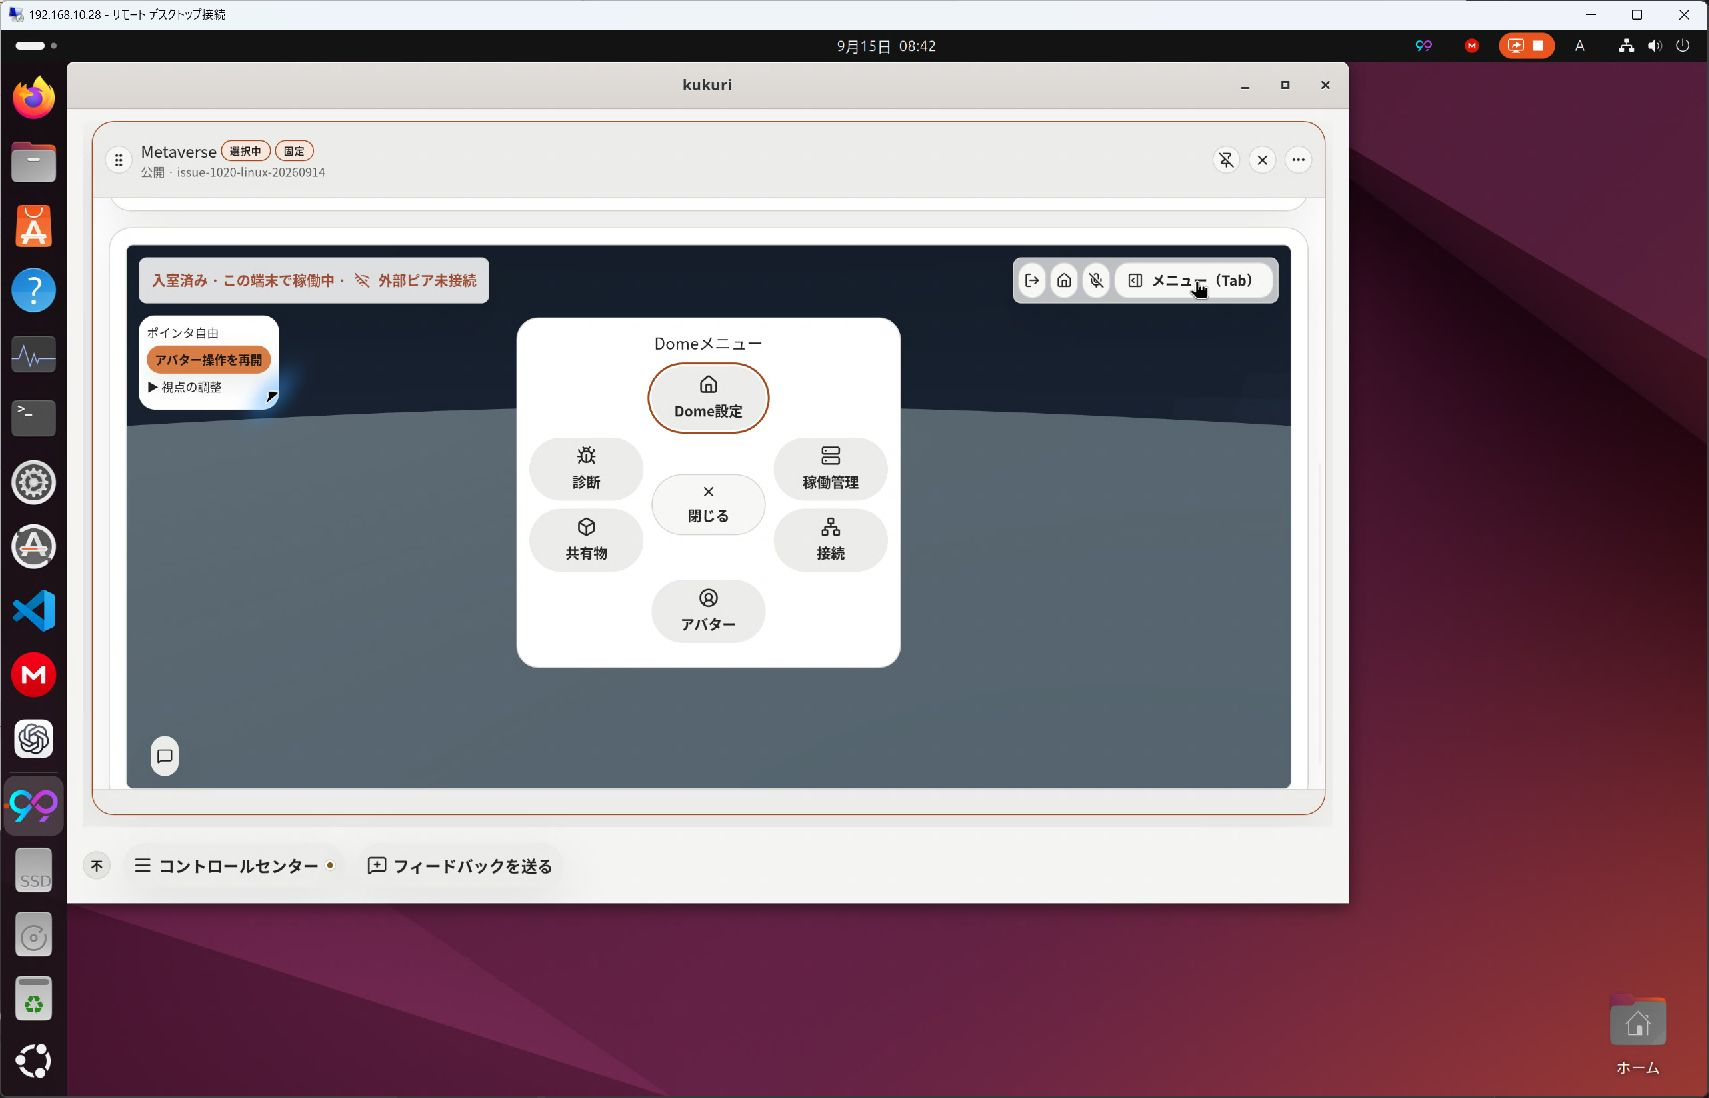
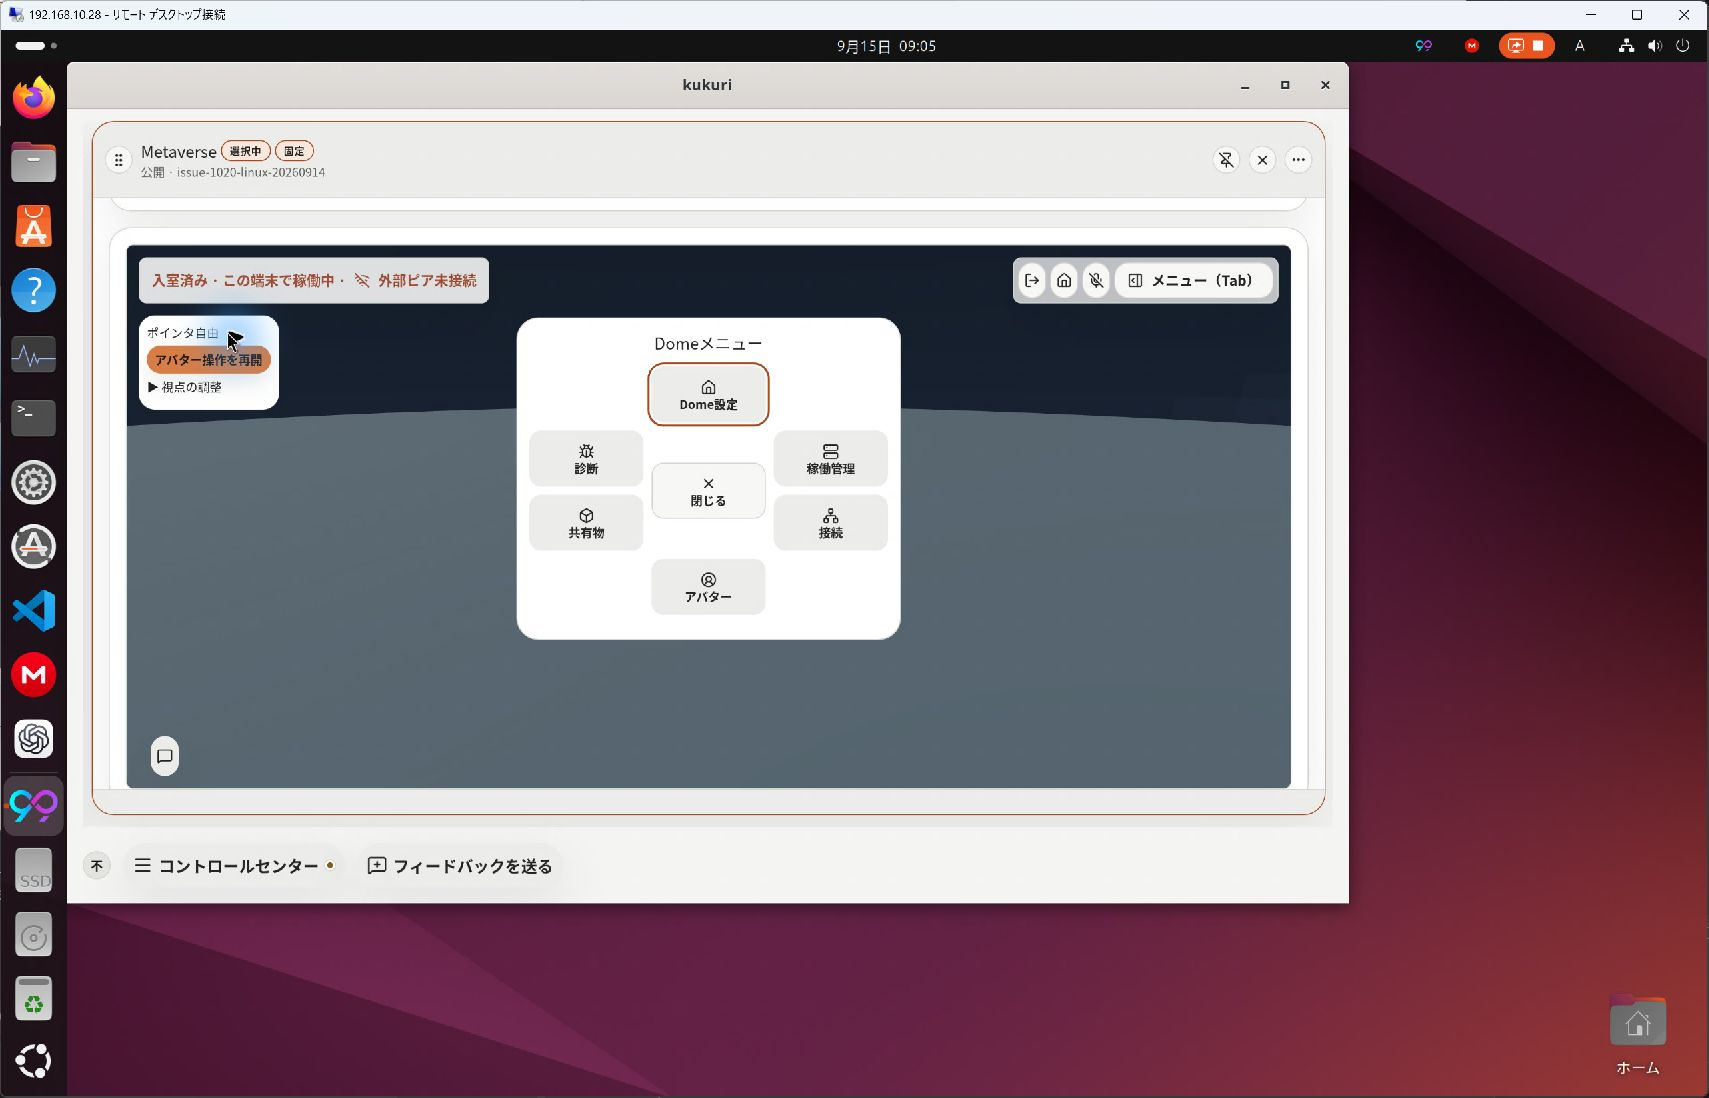
fix(metaverse): guard deferred focus and verify native HUD flows

diff --git a/apps/desktop/src/components/extended/metaverse/MetaverseRoomView.test.tsx b/apps/desktop/src/components/extended/metaverse/MetaverseRoomView.test.tsx
@@ -269,6 +269,17 @@ describe('MetaverseRoomView', () => {
     expect(removeEventListener).toHaveBeenCalledWith('keydown', expect.any(Function));
   });
 
+  test('a queued chat focus does not steal focus after the Column becomes inactive', () => {
+    const callbacks: FrameRequestCallback[] = [];
+    vi.spyOn(window, 'requestAnimationFrame').mockImplementation(callback => { callbacks.push(callback); return callbacks.length; });
+    const props = viewProps({ initialChatOpen: true });
+    const active = { visible: true, active: true, audioFocused: false, suspended: false, requestAudioFocus: vi.fn(), releaseAudioFocus: vi.fn() };
+    const view = render(<ColumnRuntimeProvider value={active}><MetaverseRoomView {...props} /></ColumnRuntimeProvider>);
+    view.rerender(<ColumnRuntimeProvider value={{ ...active, active: false, visible: false, suspended: true }}><MetaverseRoomView {...props} /></ColumnRuntimeProvider>);
+    act(() => callbacks.forEach(callback => callback(0)));
+    expect(screen.getByLabelText('Room chat message')).not.toHaveFocus();
+  });
+
   test('suspends rendering and keyboard controls without removing room session UI', () => {
     render(
       <ColumnRuntimeProvider value={{

diff --git a/apps/desktop/src/components/extended/metaverse/MetaverseRoomView.tsx b/apps/desktop/src/components/extended/metaverse/MetaverseRoomView.tsx
@@ -175,6 +175,7 @@ export function MetaverseRoomView({
   useEffect(() => {
     if (!eligibleRef.current || overlay === 'closed') return;
     const frame = requestAnimationFrame(() => {
+      if (!eligibleRef.current) return;
       if (overlay === 'chat') messageInputRef.current?.focus();
       if (overlay === 'categories') stageRef.current?.querySelector<HTMLElement>(`.metaverse-category-menu [data-category="${category}"]`)?.focus();
       if (overlay === 'details') stageRef.current?.querySelector<HTMLElement>('[role="tab"][aria-selected="true"]')?.focus();

diff --git a/apps/desktop/tests/playwright/metaverse-column-layout.spec.ts b/apps/desktop/tests/playwright/metaverse-column-layout.spec.ts
@@ -51,6 +51,9 @@ test('span expansion reveals the selected header before the next interaction', a
 });
 
 test('narrow HUD and chat remain contained and keep their drafts across spans', async ({ page }) => {
+  // Three span changes and three menu/chat round trips include a cold 3D startup.
+  // Keep each assertion's deadline; allow the complete sequence on shared CI CPUs.
+  test.slow();
   const column = await openRoom(page);
   await column.getByRole('button', { name: en.chat.open }).click();
   const chat = column.locator('.metaverse-chat-form input');

diff --git a/apps/desktop/tests/playwright/metaverse-hud.spec.ts b/apps/desktop/tests/playwright/metaverse-hud.spec.ts
@@ -17,6 +17,8 @@ async function enter(page: Page, width = 1283) {
 }
 
 test('six categories, keyboard and IME preserve drafts without dispatching domain actions', async ({ page }) => {
+  // This covers all six panes plus keyboard and composition round trips after 3D startup.
+  test.slow();
   const column = await enter(page);
   const stage = column.locator('.metaverse-room-stage');
   await expect(column.locator('.metaverse-room-hud')).toBeHidden();

diff --git a/docs/progress/2026-09-15-1024-metaverse-hud.md b/docs/progress/2026-09-15-1024-metaverse-hud.md
@@ -1,6 +1,7 @@
 # #1024 Metaverseのカテゴリメニューと設定
 
 - Issue: [#1024](https://github.com/KingYoSun/kukuri/issues/1024)
+- PR: [#1030](https://github.com/KingYoSun/kukuri/pull/1030)
 - Scope revision: `2026-09-14-r1`
 - 基準commit: `f884aa247b66605686563dba272fe1b86d920773`
 - 区分B。表示・入力と既存actionの配置を変更し、backend、同意・権限guard、wire契約を変更しない。
@@ -50,9 +51,16 @@ caller確認はCodeGraphを入口に、componentのimport、Panelの合成、act
 | HUD browser | 6カテゴリ・IME・禁止action 0回、390pxの全項目到達成功。詳細幅assertionを含む最終2件成功 |
 | camera／layout／fullscreen browser | 初回22/31成功。検出した9件を修正し、8件の再実行成功＋管理1件の再実行成功 |
 | Storybook build | 成功。サークル・狭幅・Dome設定・アバター・共有物・診断storiesを追加 |
-| cargo xtask check | Rust／Tauri compile後にfrontend lint失敗。ref／exportを修正しtargeted lint成功。最終gateは後続で記録 |
-| cargo xtask test | 実行中。完了結果は後続で記録 |
-| desktop-ui-check | Windowsで実行中xtask.exeの再リンク競合。コピーした同一xtaskで再実行。旧CSS未使用とshellの失敗を検出、最終結果は後続で記録 |
+| cargo xtask check | 初回はfrontend lint失敗。ref／exportを修正し、再実行でRust／Tauri／lint／typecheck全て成功 |
+| cargo xtask test | Rust 940件成功（既存skip 4）、harness 23件成功、doctest成功。frontendは1699/1702件成功、topics／timelineViewの3件失敗。後述のtargeted rerunで全件成功 |
+| desktop-ui-check | Windowsで実行中xtask.exeの再リンク競合。同一xtaskのコピーで再実行したが、cargo testのfrontend工程と重複したため中断。完了範囲はlint/typecheck、失敗は旧CSS未使用とshell timeout。CSS修正後の差分検証は成功。CIのdesktop-uiで全体Vitest・Storybookを検証 |
+| shell失敗の切分け | currentのtopics 10件成功、timelineView単独4件成功。基準commitでもそれぞれ10件／4件成功。固定assertionを変更せず、5秒のtest全体deadlineでの一時的失敗と区別して記録 |
+| Accessibility | built Storybookの6画面×light/dark、axe-coreのWCAG 2A/2AA/2.1AA/2.2AA検査で違反0。狭幅menu 2条件はcolor-contrast incompleteで、自動判定完了とは扱わない |
+| oversized-files / diff | 既存ratchetの増加なし、未使用HUD CSSを削除。git diff --check成功 |
+
+追加した遅延focus testは、予約後にColumnをinactiveにしてcallbackを実行すると失敗することを確認し、callback実行時のeligible再確認後に成功した。RoomView全15件成功。これはINVAR-2の同じ入力所有境界の修正であり、新しいshared guardやbackend変更ではない。
+
+最初のCI browserは341/343件成功。3回の幅変更・カテゴリ往復と、6カテゴリ＋IME往復の2件がcold 3D起動を含む全体30秒deadlineを超えた。各assertionのdeadlineと検証内容を維持し、この2つの複合sequenceだけ既存のfullscreen testと同様に`test.slow()`とした。ローカルの該当2件は再実行成功。最終headのCIを確認してからマージする。
 
 実行ログはローカル`.codex/plans/issue-1024-*.log`。Windows visualは比較skipのsmokeであり、Linuxのpixel比較と区別する。未完了・失敗を成功へ読み替えない。
 
@@ -60,9 +68,17 @@ caller確認はCodeGraphを入口に、componentのimport、Panelの合成、act
 
 Windowsローカルと、同じローカルからRemote Desktopで接続したUbuntu24をComputer Useで操作する。Ubuntu24へは`ssh local2`でソース配置・buildを行い、GUI操作はRemote Desktop上で行う。
 
-- Windows: 1283×871、日本語、light、world version 7、owner-hosted、外部参加者なし。基準版と修正版の表示・pointer操作を確認中。
-- Ubuntu24: 1280×840相当、日本語、light、world version 7。既存バイナリで初期表示・メニューを確認後、基準commitからbackendを再buildして最終確認する。
-- 高負荷なbuild/test中にはnativeの回復案内も観測した。これを通常時の操作成功の証拠にしない。
-- 実IME、dark／200%の実機、screen reader、High Contrast、物理touch、複数Domeの実通信は、確認結果が追加されるまで未確認。
+- Windows: 1283×871、日本語、light、world version 7、owner-hosted、外部参加者なし。pointerでmenu／詳細切替、材質を「木」へ未保存変更してカテゴリ往復、Escape→Tab→Home→Enter、Enter chat→入力→Escape→再openでdraft保持を確認した。2560×1440のnative fullscreenとEscape復帰でも描画・chat draftを保持した。
+- Ubuntu24: 1280×840相当、日本語、light、world version 7。backendは基準commitから再build。Tab／Enterでmenu／詳細、設定paneのscrollと倍率表示、Escape復帰、chat draftの閉じる／再openを確認した。native fullscreenで描画が続き、Escape復帰後もdraftを保持した。Remote Desktopの全画面キャプチャは1707×1089の取得範囲に限られるため、Linux全画面の全control配置を一枚の画像で確認済みとは扱わない。
+- 開発serverの更新やbuild/testと並行した確認で一時的な回復案内を観測した。後続の通常状態への復帰を確認し、回復中の画像を通常表示の成功証拠として使わない。Windows最終確認ではstatic buildのpreviewも用いてHMRを避けた。
+- 実IMEの切替はComputer Useが`Zenkaku_Hankaku`キーをサポートせず未確認。composition開始→Enter→確定→Escapeの誤送信／誤移動防止はunit/browserで検証した。dark／200%のnative、実screen reader、OS High Contrast、物理touch、複数Domeの実通信は未確認。browserの多言語・theme・幅・touch代替確認と区別する。
+
+| 証拠 | Windows | Ubuntu24 |
+| --- | --- | --- |
+| 初期最小表示 | [画像](assets/2026-09-15-1024-hud/windows-initial.png) | [画像](assets/2026-09-15-1024-hud/linux-initial.png) |
+| メニュー | [画像](assets/2026-09-15-1024-hud/windows-menu.png) | [画像](assets/2026-09-15-1024-hud/linux-menu.png) |
+| 詳細／draft | [材質draft保持](assets/2026-09-15-1024-hud/windows-draft-restored.png) | [設定単位](assets/2026-09-15-1024-hud/linux-settings.png) |
+| chat再表示 | [画像](assets/2026-09-15-1024-hud/windows-chat-restored.png) | [画像](assets/2026-09-15-1024-hud/linux-chat-restored.png) |
+| 全画面・復帰 | [全画面](assets/2026-09-15-1024-hud/windows-fullscreen.png) / [復帰](assets/2026-09-15-1024-hud/windows-fullscreen-return.png) | [取得範囲](assets/2026-09-15-1024-hud/linux-fullscreen.png) / [復帰](assets/2026-09-15-1024-hud/linux-fullscreen-return.png) |
 
 レビュー・最終検証・merge確認は追記する。独立監査は通常Bのため必須ではない。共有guardやbackend境界の変更が必要になれば区分を再評価し、必要な監査を追加する。

diff --git a/docs/ui-reviews/2026-09-15-1024-metaverse-hud.md b/docs/ui-reviews/2026-09-15-1024-metaverse-hud.md
@@ -3,14 +3,14 @@
 - Status: current
 - Supersedes: [#1021](2026-09-14-1021-avatar-camera.md)のTabで既存HUDを開く表示、[#1022](2026-09-15-1022-metaverse-layout.md)の縦長HUD配置のみ。camera方式、幅変更時の文脈保持、[#1023](2026-09-15-1023-metaverse-fullscreen.md)の同一canvasは維持する。
 - Superseded by: None
-- PR: Issue #1024、scope `2026-09-14-r1`。PR識別子は作成後追記。
+- PR: [#1030](https://github.com/KingYoSun/kukuri/pull/1030)、Issue #1024、scope `2026-09-14-r1`。
 - Preview: [変更前](../progress/assets/2026-09-15-1024-hud/windows-before.png)、[カテゴリメニュー](../progress/assets/2026-09-15-1024-hud/windows-menu.png)。最終実機証拠は[作業記録](../progress/2026-09-15-1024-metaverse-hud.md)へ集約。
 - Surface / user / purpose: 入室中のowner／guestがDomeを広く見ながら、会話・カテゴリ設定・アバター操作を往復する。
 - Summary: サークルから既存の外側panelへscrollする案と、同じ詳細面に6タブを持つ案を比較し、後者を採用。カテゴリ移動と明示mutationを分離し、draftを保持する。通常表示は最小にし、技術情報と稼働変更を別の階層へ移す。
 - Conditions: browserでは390px、1/2/3列、標準1283×871、全画面、ja/en/zh-CN、light/dark、owner／guest、dirty／error／IME。nativeの完了条件・結果は作業記録参照。
 - Accessibility / interaction: 文字labelとicon、通常Tabと矢印／Home/End、詳細tablist、非表示paneのfocus除外、閉じる／Escape、最前面eventの優先。最終手動結果は作業記録参照。
 - Performance: scene・network session・hosting controllerを再mountするカテゴリ切替を作らない。既存接続pollerを複製しない。定量GPU比較は対象外。
-- Validation: 関連unit/browser成功、Storybook build成功。全体gateと実機確認は作業記録へ追記。
+- Validation: 関連unit/browser、Storybook build、axe 12条件、Windows／Ubuntu24の主要往復を確認。全体gate、CI、失敗と再実行、未確認の詳細は作業記録へ集約。
 - Not verified: 作業記録の未確認欄参照。自動検査をscreen reader適合やnative fullscreenの証明としない。
 - Review result: 承認済み設計を実装。最終merge判定は全体gateと実機確認後。
 - Exceptions: None。既存host／同意／権限guardの変更は含めない。
